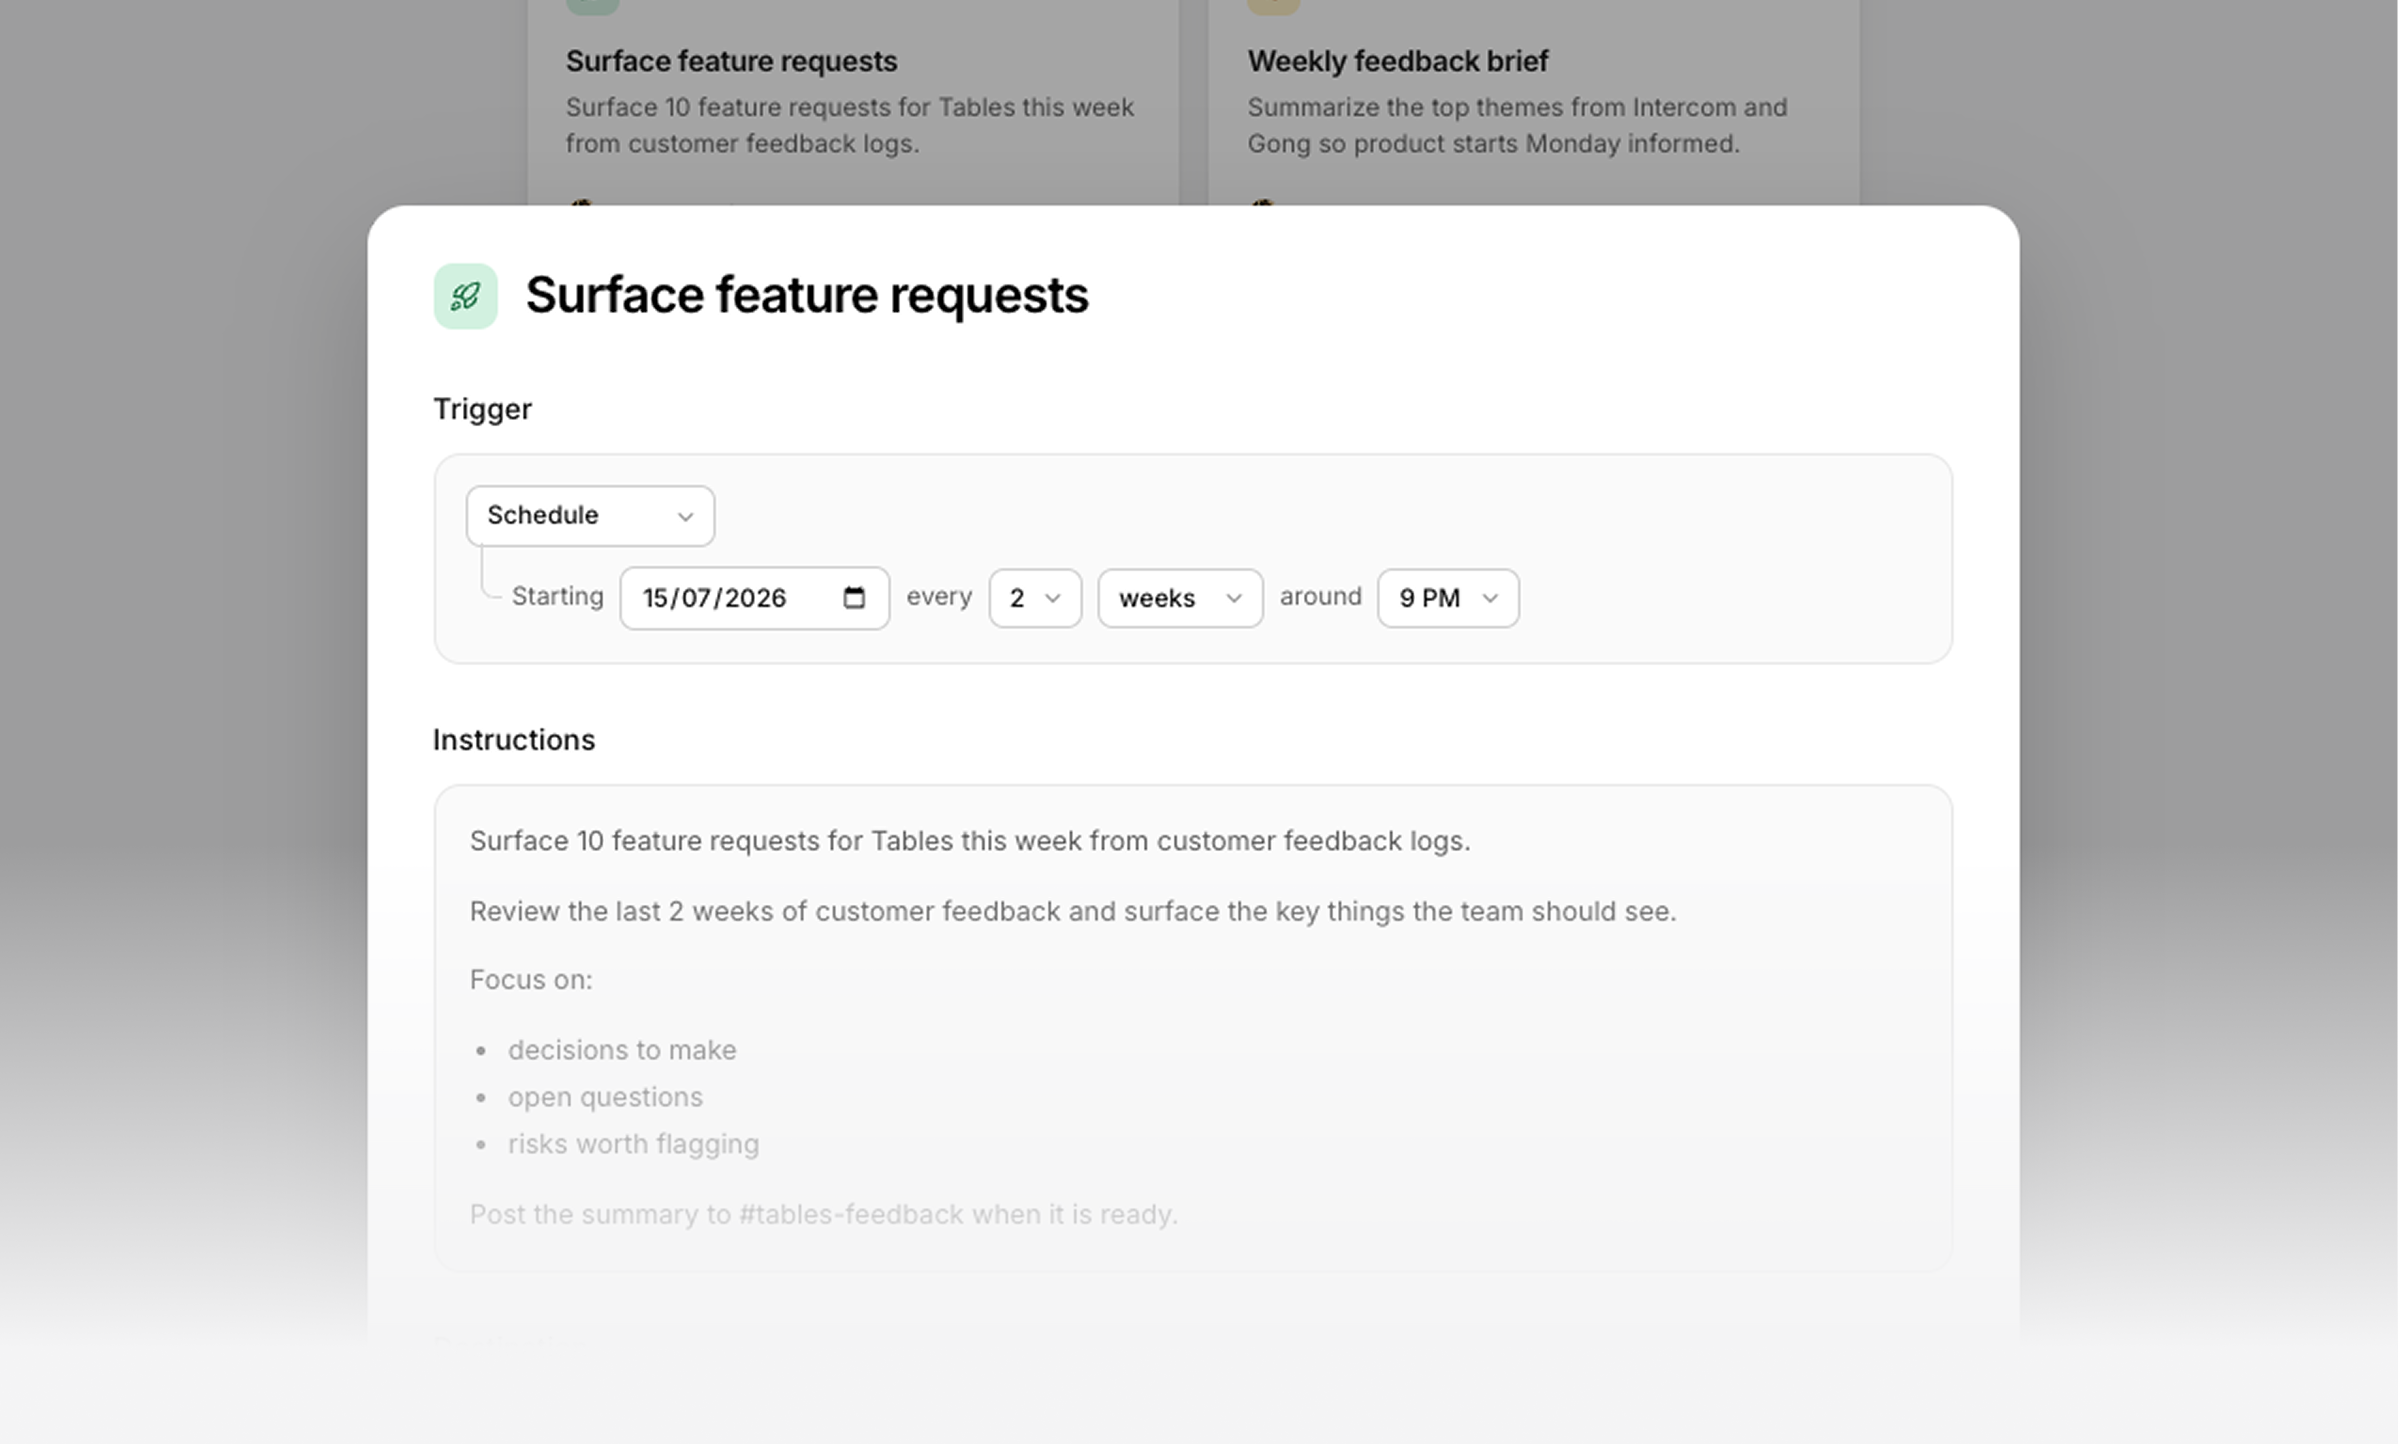
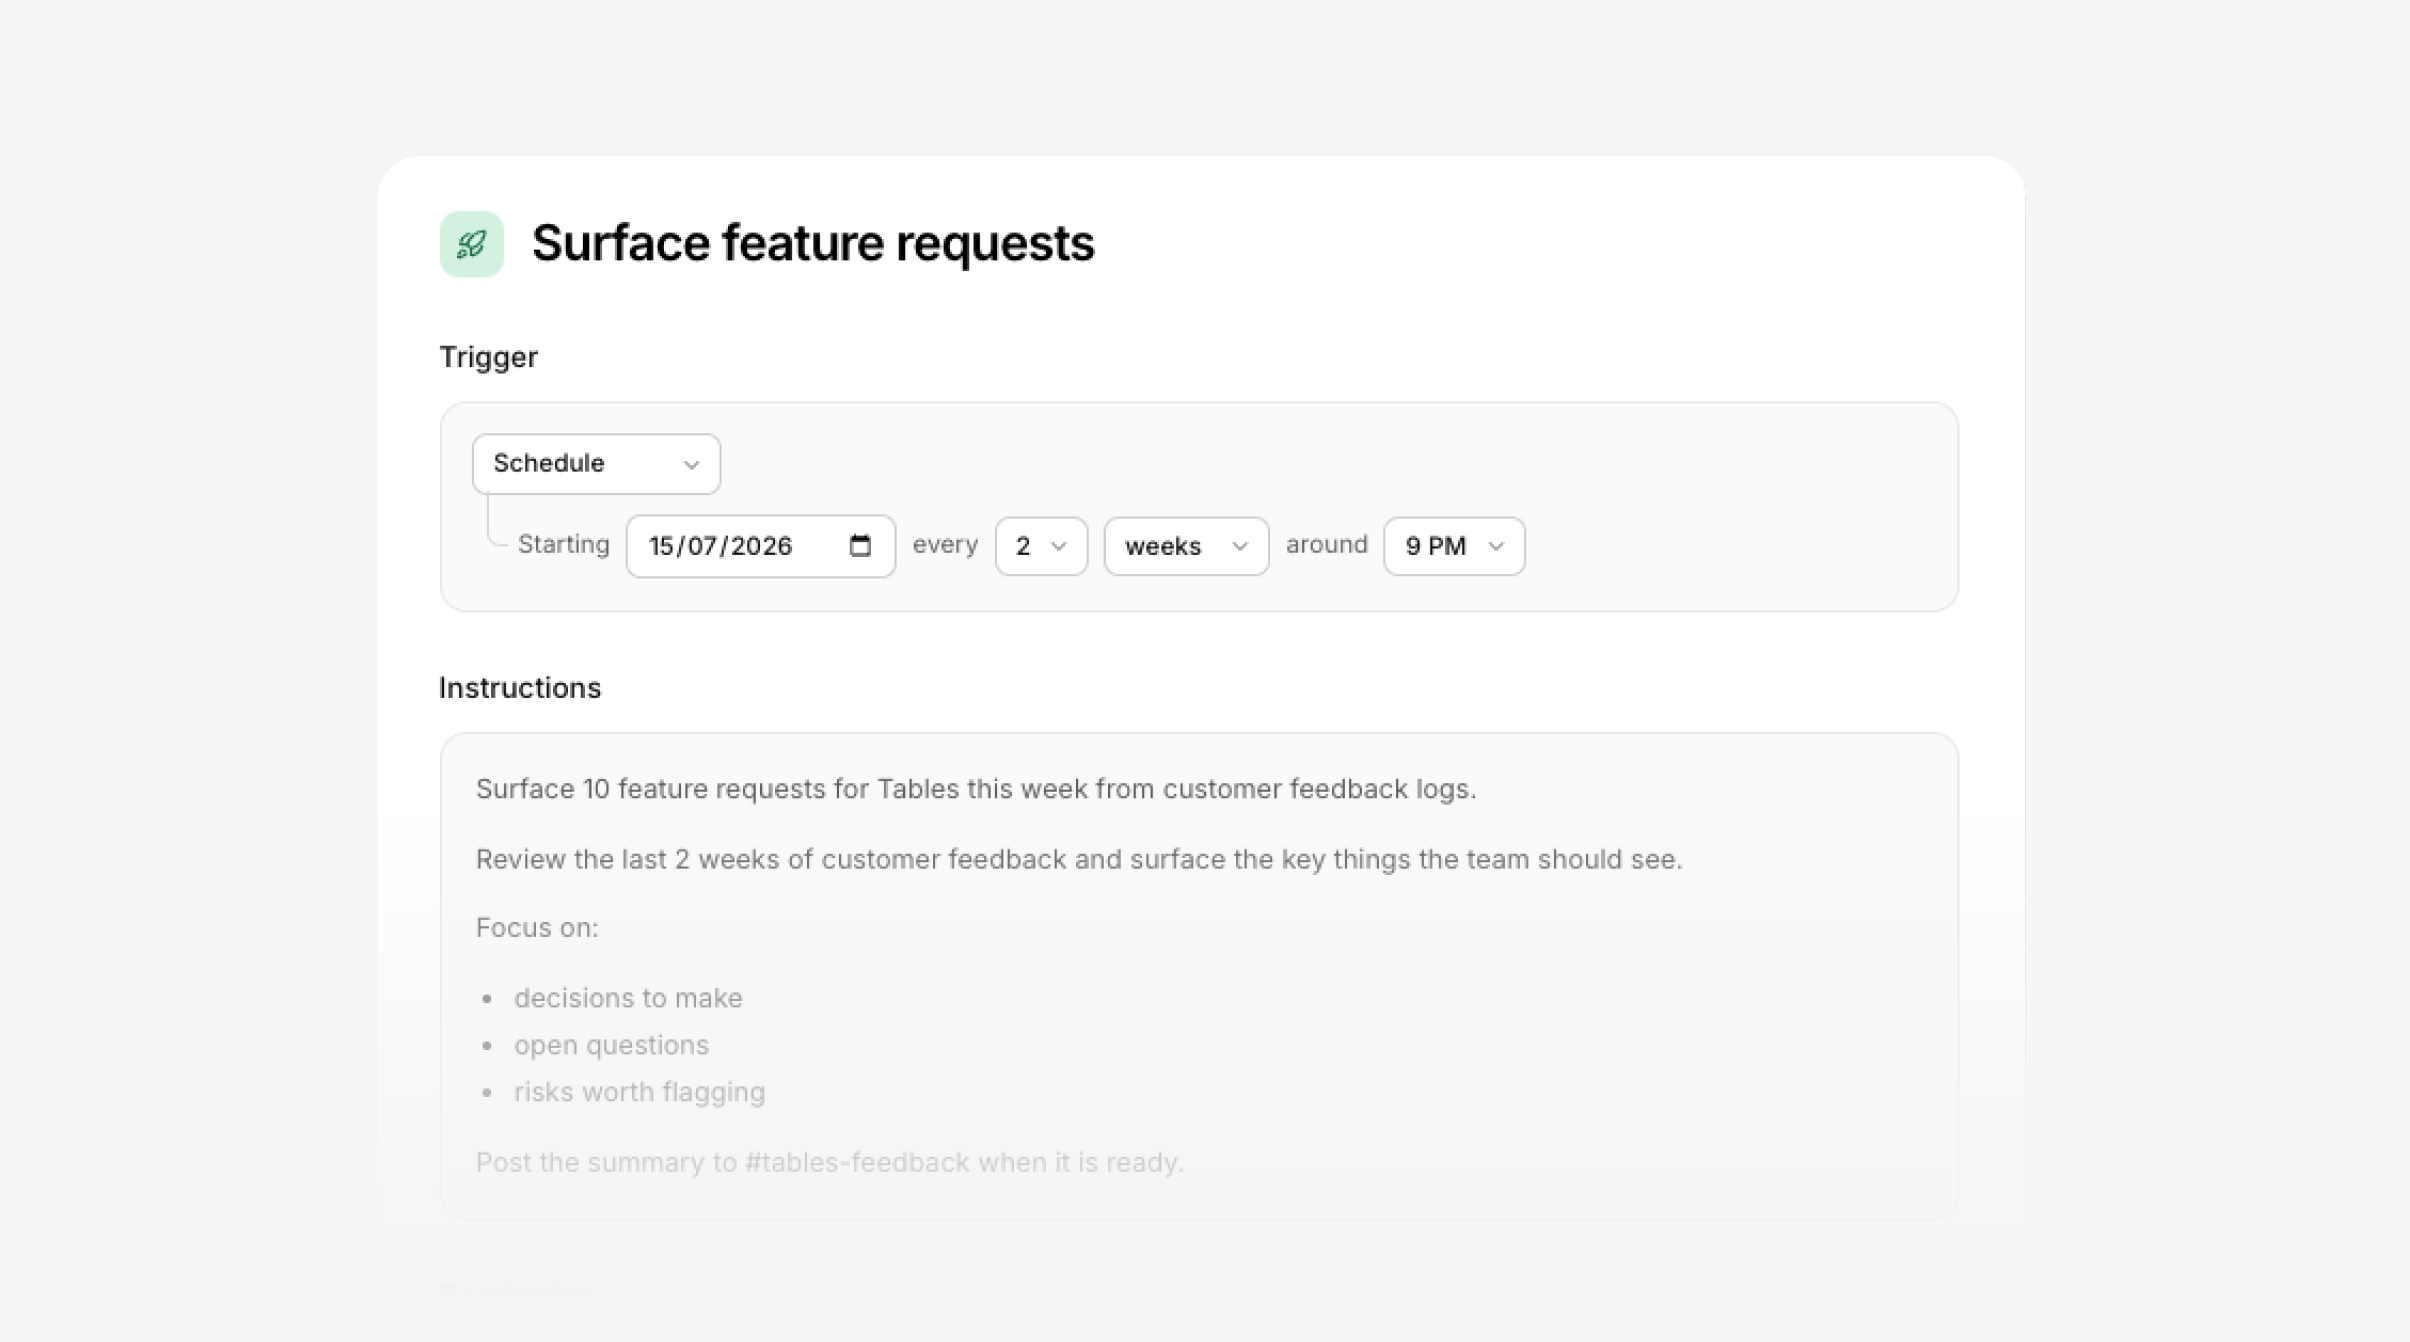
Refine quotes and automations imagery
- Remove quote blocks from Cashbook + SAP projects (hide divider/quote when absent)
- Update Ask Insights quote
- Replace second Automations image

diff --git a/js/projects.js b/js/projects.js
@@ -98,7 +98,7 @@ window.PROJECTS = {
       'Trust is the biggest hurdle with AI, so I structured the chat interface to heavily prioritise inline citations and source links — users can click straight through to the exact snippet of the original customer call or transcript to verify a response. To make a blank chat box less intimidating, I designed a zero-state onboarding with suggested, high-value prompts based on the user’s role, guiding them to value on their very first interaction. I also refined the iterative search flow to support continuous follow-ups, letting users drill down from a broad query — “What are our top customer pain points?” — to a specific detail like “Tell me more about the payment errors they mentioned.”',
       'Ask Insights fundamentally changed how product decisions get made by democratising access to customer data. By shrinking the research loop from days to seconds, we empowered product managers, marketers, and developers to self-serve insights autonomously. Clear citations meant the team actually trusted the AI’s outputs, making the feature the go-to tool for pre-sprint planning and roadmap validation.',
     ],
-    quote: 'It’s like having a teammate who’s read the entire board.',
+    quote: 'It\'s crazy how quick we can surface data that before took such mental effort to gather',
     quoteBy: 'Customer feedback',
   },
   'customer-insights': {
@@ -142,8 +142,6 @@ window.PROJECTS = {
       'I restructured the information architecture, auditing and consolidating deeply nested menu items into intuitive, task-oriented categories so accountants could glance at the sidebar and instantly find what they needed. I designed for future modular add-ons with a flexible, nested navigation framework engineered to support “plug-and-play” modules — letting future products be toggled on or off without disrupting the core experience. And I optimised workspace density, maximising screen real estate for complex financial tables and dashboards while keeping navigation accessible and uncluttered.',
       'The redesign decoupled Cashbook’s UI from its legacy limitations. For accountants, the streamlined navigation was an immediate efficiency booster, significantly reducing the clicks and page loads needed to complete routine financial reconciliations. For the business, the modular framework cleared the runway for the product team, enabling them to ship new add-on services and features without costly, recurring design overhauls.',
     ],
-    quote: 'I never get lost anymore — everything is where I expect it.',
-    quoteBy: 'Customer feedback',
   },
   visualisations: {
     title: 'Visualisations',
@@ -165,8 +163,6 @@ window.PROJECTS = {
       'I ran user research to pinpoint the most critical “north star” metrics — cash runway, burn rate, outstanding invoices — that managers needed to see the second they logged in. I translated dry, tabular data into clear, interactive charts and trend indicators optimised for rapid scanning and high legibility. And I designed the dashboard as a gateway rather than a dead end, letting users hover for quick details or click a visual anomaly to drill down into the underlying raw transactions.',
       'The visual dashboards completely changed how managers interacted with their financial data, turning a weekly chore of reading spreadsheets into a quick, intuitive visual check-in. By bringing critical trends to the surface, we dramatically cut time-to-insight. Managers could spot cash flow bottlenecks or revenue dips in real time, empowering them to make faster, data-backed decisions with total confidence.',
     ],
-    quote: 'I can finally see my cash flow at a glance.',
-    quoteBy: 'Customer feedback',
   },
   'developer-tools': {
     title: 'Developer Tools',
@@ -182,8 +178,6 @@ window.PROJECTS = {
       'I strictly adhered to Microsoft’s design language — matching typography, iconography, and spatial density so the interface felt completely native. I built extensive compatibility with VS Code’s diverse ecosystem of colour themes, from default Dark/Light to community themes, ensuring every custom UI element dynamically adapted and stayed perfectly readable and accessible. And I simplified complex workflows, translating dense SAP application-generation steps into lightweight sidebars, interactive wizards, and command-palette flows that matched the keyboard-first habits of developers.',
       'By respecting the developer’s environment and styling preferences, we turned Fiori Tools into a natural, seamless part of their daily workflow. The native look and feel drastically reduced cognitive load — developers no longer had to mentally switch between differing design philosophies. This user-first approach to developer experience accelerated adoption, making Fiori Tools the preferred, standard way to build modern SAP applications.',
     ],
-    quote: 'It finally feels like part of VS Code, not something bolted on.',
-    quoteBy: 'Customer feedback',
   },
   'design-systems': {
     title: 'Design Systems',
@@ -199,7 +193,5 @@ window.PROJECTS = {
       'I architected multi-theme variables — a sophisticated colour token and variable structure in Figma that let designers toggle between 10+ themes instantly and watch components dynamically adapt their colours, borders, and contrast. I standardised 200+ components, auditing, rebuilding, and documenting a massive library from simple buttons to complex code-generator wizards, all strictly adhering to both VS Code guidelines and Fiori logic. And I aligned design and engineering tokens, working closely with front-end developers to map Figma properties and variables directly to production CSS and JSON with a unified naming convention that eliminated handoff guesswork.',
       'By standardising the design system, we turned a fragmented workflow into an efficient assembly line. Designers could design a feature once, toggle a theme to verify accessibility, and hand it off to engineering with total confidence. This modernisation drastically cut design handoff times and QA cycles, letting the team focus on solving complex user experience challenges rather than fixing styling inconsistencies.',
     ],
-    quote: 'Shipping consistent UI got dramatically faster for every team.',
-    quoteBy: 'Customer feedback',
   },
 };

diff --git a/js/project-nav.js b/js/project-nav.js
@@ -271,8 +271,16 @@
 
     const quoteText = document.getElementById('pc-quote-text');
     const quoteBy = document.getElementById('pc-quote-by');
-    if (quoteText && project.quote) quoteText.textContent = `“${project.quote}”`;
-    if (quoteBy && project.quoteBy) quoteBy.textContent = `— ${project.quoteBy}`;
+    if (project.quote) {
+      if (quoteText) quoteText.textContent = `“${project.quote}”`;
+      if (quoteBy && project.quoteBy) quoteBy.textContent = `— ${project.quoteBy}`;
+    } else {
+      // No quote for this project — hide the divider and the quote block entirely.
+      const rule = document.querySelector('.pc-rule');
+      if (rule) rule.hidden = true;
+      const quoteReveal = document.querySelector('.pc-quote-reveal');
+      if (quoteReveal) quoteReveal.hidden = true;
+    }
 
     // Top blur (and, on mobile, the centered title) only appear once the user scrolls
     const topBlur = document.querySelector('.top-blur');

diff --git a/automations/index.html b/automations/index.html
@@ -75,7 +75,7 @@
         <h1 class="pc-lead" id="pc-lead"></h1>
       </header>
       <div class="pc-image pc-image--main pc-image--fit pc-image--fade-bottom animate-in" style="animation-delay:90ms; aspect-ratio: 2410 / 1342;" aria-hidden="true"></div>
-      <div class="pc-image pc-image--main pc-image--fit animate-in" style="animation-delay:190ms; aspect-ratio: 2398 / 1444;" aria-hidden="true"></div>
+      <div class="pc-image pc-image--main pc-image--fit animate-in" style="animation-delay:190ms; aspect-ratio: 2410 / 1342;" aria-hidden="true"></div>
 
       <p class="pc-desc animate-in" id="pc-desc-1" style="animation-delay:380ms"></p>
       <p class="pc-desc animate-in" id="pc-desc-2" style="animation-delay:470ms"></p>
